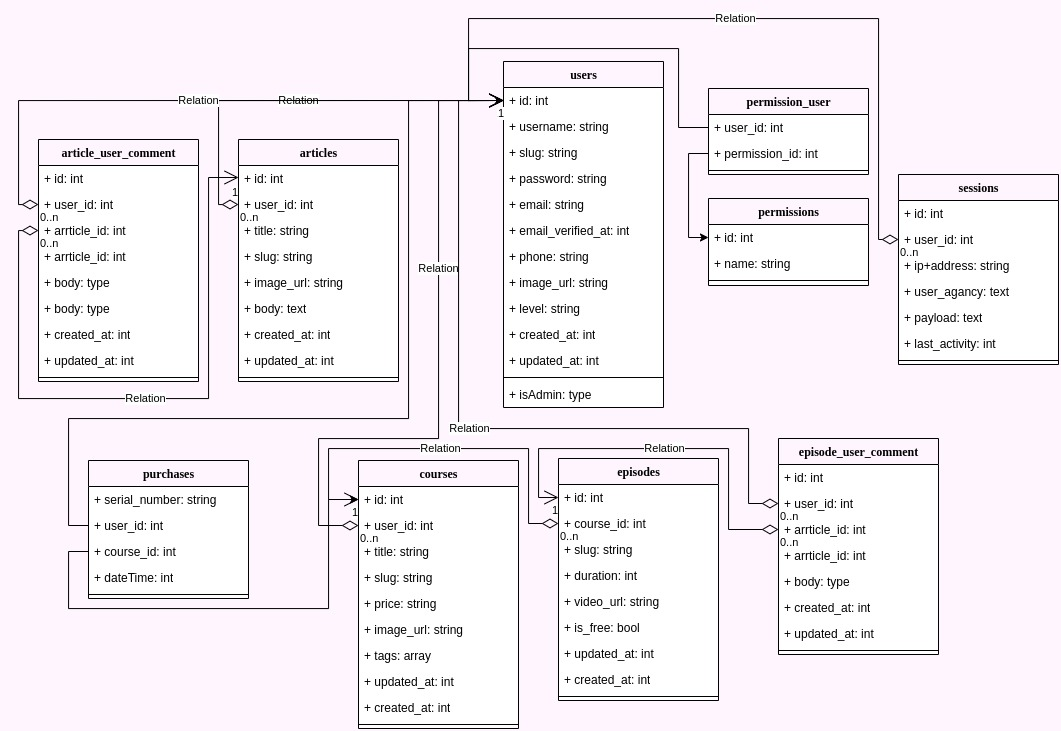
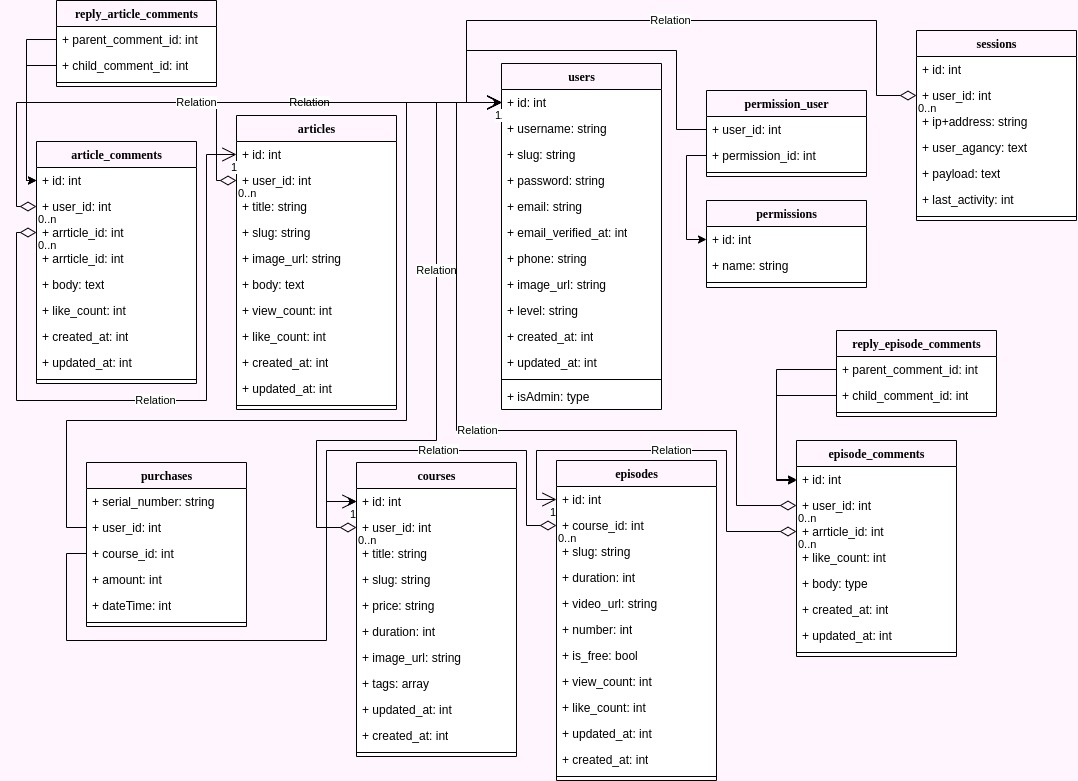
edit database diagram (editatio2)

Changed region(s): [[0.0, 0.0, 1.0, 1.0], [0.591, 0.0, 0.7154, 0.0301], [0.6532, 0.933, 0.6843, 0.9631]]

diff --git a/LearnShop/database/migrations/2022_09_07_120213_create_purchases_table.php b/LearnShop/database/migrations/2022_09_07_120213_create_purchases_table.php
@@ -20,6 +20,7 @@ return new class extends Migration
             $table->foreign('user_id')->references('id')->on('users');
             $table->unsignedBigInteger('user_id');
             $table->foreign('course_id')->references('id')->on('courses');
+            $table->string('amount');
             $table->timestamps();
         });
     }

diff --git a/LearnShop/README.md b/LearnShop/README.md
@@ -6,7 +6,7 @@
 <a href="https://packagist.org/packages/laravel/framework"><img src="https://img.shields.io/packagist/v/laravel/framework" alt="Latest Stable Version"></a>
 <a href="https://packagist.org/packages/laravel/framework"><img src="https://img.shields.io/packagist/l/laravel/framework" alt="License"></a>
 </p>
-<a href="https://viewer.diagrams.net/?tags=%7B%7D&highlight=0000ff&edit=_blank&layers=1&nav=1&title=LearnShop_DatabaseDiagram#R7V1bc%2BI4Fv41ecwUvmIek3Snd6u6t7qme3Zmn1IKVsA7xmJtk8v8%2BpVtiYtkgQlYx0xOV1cFC2Hko0%2Fn8p0jceXdLV6%2F5GQ5%2F8Ziml65o%2Fj1yvt05bqOE4z5n6rlrWkZB0HTMMuTWHTaNPxI%2FqKicSRaV0lMi52OJWNpmSx3G6csy%2Bi03Gkjec5edrs9sXT3W5dkRrWGH1OS6q2%2FJ3E5l88VTjZv%2FIMms7n46sgVD%2FxIpn%2FOcrbKxPddud79%2FX1w%2F7l5e0HkvcSDFnMSs5etJu%2FzlXeXM1Y2rxavdzStZCvF1nzu3vDuetw5zcouHxhHk5BP1%2BRpFNJJRKNrRzzIM0lXQhgkL5NpyqejGXH5JqVUvCSLlGT86nZeLlLe6PCXTywrf4hO1TVJk1nGX0%2F5kGjOG55pdUOS3og3SrbkrdN5ksZfyRtbVQMvSi5IeXU7Z3nyF78tkd%2FB385LARs33Onxo%2Fokbx7x1pwWvM93KQ1n3fSVFKXoM2VpSpZF8rge8ILksyS7ZWXJFqKTfNL7JE3vWMryWgDeU%2F2vums14zSWveWkNvdfJFPxOiWPNL1dQ0TeKWO1DIsyZ3%2Bu8VaLcuvrRKdKuvdkkaTVyvo3zWOSESn0Rh6Oq4NA4KKSPH3dahKg%2BELZgpb5G%2B8i3nV9AVCxgJ1Q3OJlazmEos98ayW4vvh6IpbgbH3vDQz5C4HEjqhcP8AGlVfurfjETfWXP6kKT%2F6o5S40GwmrEtWFLCGb0qfSCNhiSaZJNvta9%2Fnkb1p%2BFdKoml7mSUl%2F8PZqTC9cWfI2xu%2F3lNYAmSdxTLMaQCUpSYPBCilLxp%2BolmBwy%2F9zQd%2BNfgmuAv5cd%2Fza2Vzz%2F1X3vLxjGX8%2BktRzTjnAX2gF8lsdDeZFfxgfAg980XWDQ3g6Gv5F7377FkfFw29fkhX5%2Bc%2Bb%2BZfr69AAiFVB8wdERUdUaBPeCShGVASuPVToOsIzQKJMykqCNzUOcj4ViAmLmmIcQWIiMGCiSFczhAQQJJyRD2w9fKM%2FseCe%2FcMqTxEcQDbE8UaQCsPkVzyyKpatMFFPPiLCoroILDqbOiJ8AyKmOSUljR9Iic4mCCwii95mqxUxORerZYzIADQh7gjS53QmLbBQZj9NVNasE%2FlzYOoXfMJSupnrnxUUPl07Gh48HQ9eyzzXdNV3ViRlwqr7501fZf5h%2BAevowsZ9TDD0kPZmuGKdkCC9AMRpMFIaH8ByMjrhkfP70PneMiP9umcrBf8IPlRfbiuyTHhWiojCyTDoGBhkyBtJz4MyEA%2BrE9%2F1RvtRQUoReqZaPMlKYoXlscICyBlYZUm1cdrUhV0QRKkR8FAYZMebTUhkcnXrIHxwB8leUqQ%2FQCzJrB0qWci0JfzegJRbcCoDXCyVNYFYcptcBoDli%2F19IrDBhgpfaYICjAGoyvD2pvGMPkZmHgDVhchtAtqClkx8QaMjAjU9YxaYIGJt%2FOaBU9mT0ASb22p1dqHLG7iRZKJAp23JcVlbxMTrkWDoI3X163BkuaLpCj44sGc7AfKyY7l9jFpjrriMhr3gUsTgYo52XOoqfWyv4ycrG8qFsN8LCAkQDesBG0BLvqr553hrrnVPtzVQOfCl6t8OicFbqb9SH7JZNct8bty8Y7XByrlN%2Bk1IDRPSPqQrRaPFbTQJJ1BYa1VwGV4KYEpwMZttYCQgPVS2li1moZnq7ygCAogUIAWjYWm3EzFv%2F9MZESDmLCLCdiKsbCN8MB45sxT3LX%2BqxfXUXcPGiuA4cwHCme88J3xjBv2AcqxKZ5Bz%2BQcKmq95i8jghmbPBOMYAAhARrBjF0DJPBgIEhM2Axg2itSjUQYbobqsYaoQcowYpj2Yx1MqbplnkxRX4ABA3zni7FSGUvYwcEBuullbNr0UpJZ0WCC5Dl5Q0hY9C%2Fgt7y0FqRinTK8trC64aUdGqZEG25uAIaGzW0vuiFp8zCQQj83PwVIoUujtDXDdJkULEYO%2FSNx6IHGoXcNbs5xvn67ScJ6ZcumqNEFg%2BDR2xFhCmuw9AMUGLBsOh6p3nuwu3YSBkmm65AwWY54lZPG%2F0M1YR8TsNVAkQkUz0lMGZKlkMAAZ9JDkxFJioennIokyyNjKQLDomNhlUVvdzlNOVmkTIGhAc6mu0iZDhMasMdHTdo0BlKm5%2FUYQI%2Fbn%2BjOQkHxdIePRplORruUqTPp6Kw4UkWc%2FyhUncxHyrRXU9ToguFSppHxaDIsP4aDBShhOjFWjS35XxLHXP8XyIWcxbNZuwqXQZxOjAVClbYgM5JN8UcHYXABS546I5NnsSRvKSMxogIGFeDMqZFWT%2FmjP5BpmTwnJf%2BaMC2bqcl20BH%2Bb8WqNx7XHv%2F1tAFB45fw2LOKaG43PfmrWf1347k09%2BbDb24v3kcc2nNoYMudnVGbl4ucy5l1TVfGtQ%2FOxRnprsnmVM2Hyj%2FRZhy5l78t96KerOk4He1g1JcdHONJRSC%2FvNvohUEQMC2DM4FiS3UhNM5hzjb24TL2gDtOWy0juixnnmOLp222R0faJP9K06YETZ1smsU3eV6vKbasV9TWvPM3N%2BZT%2BBeyd5yQBcvin%2FPqvPkd18PxZUPlGIjpovGMSv%2BHz8eczVhG0s%2BbVsVboK9J%2BcfW6%2F9Ur%2FnCba4%2BvW699elNXmRceH9sX2x9qrrcfKy%2Bkp9rhFKN0GgBRFPBVvmU7pG8WF784WfUBCjPAJ68nqPn3UG0YUN89Durlbd0Tlxv1znxlXRPM3bxoQ3AtPt46jmdyn2aZ9Puc9Ps7Fx3E%2BvQPFx392ukwjMNS%2B3vCM21WSfNCDarZi3a9y8k3ZCOfvmlZRFx6Hyt9JF0pbf01NZy6mQdm5tPWZbRqdR3V%2BuHP%2BComLWB0aeVvy%2FUGX2n%2FZiRXqbgnCpOqfmHIU%2B74tSP%2BSGVEFJax6YPPMxa0BYPD2PUIceoB0C5P0b1FTUpz6iE21G1fiwsD%2BgnPN2jGgYRobaPD0sEBgoNmxFqe4mrCRokF8YN4QEHD%2FADyxxT7g%2FhMQB4wB9cZjyG6JHFso4EfxsPABngVQOt7CciAx4Z4BuuHFN1Iu6qGQA8wDddOXiE2XDhAX%2BMmdOWcFVQ8PGyan1MtcUNWO2hqc5fY2rNTmpNEkYgubVdUjV8b2ot2r1P1FNq7cjMGkBibV17ddGZteazA0mtSZtzyam1AwK1K0%2BdZkJVb0fVu11UvSkPdqKqv1ZqPD3nncreCQ7cqCdtH7h7h6V098W1sbtzWn9nMtnfX81X7vbvyfroW%2Bkv0fr4Q7I%2BOrV2edZnv0CtytPTHSS0Pme3PsbfzXpXkPEqVYkbed6RYDEEDEpNn%2Be%2B0xj5qlpWQ5gzGSNPMS%2BBP947LrW%2FH%2B43L75%2FWv%2B9wc3m0%2FJx2dNTQcsrdTGfwQR5urd%2BgSbowEqwa4I8vWzg4kzQAYFalaevyxNNkJ0AyOtSRz42BMsn2hxfiVv89xaS%2B2PlRkE%2FNifwVJsT7B2X2l%2BO02ijTuwfiDnoNaTxdbbiAu1Jo3IGYk98PUq8OHtyQKB25amHiOI3P7BY%2FYMWq4%2Bjdnf%2BcCrX6SuX6xvPqcKiwv7yvo1uMOd9oeuD%2FL1HVCE04KABXq3um3bbYznyAOABXq0ugx6ExxDhAV%2BtHuhEP9YkDwEZ4NXq0rJhTfIQ4QFesh4YN1BiTTI8PMBL1oO2XXIKCrAm%2BRyxadfy875qkgOdV8M8jZ08jYz9tvM0e35V9uy5mlD9%2FVy5N%2FbYXE2oJn3UQoMz5WrGam4kcPaOS%2B1%2FKPcSqPUBR%2FYPnD3lZzbrAwKdhrzAfE5gUJ0g%2BZxA5%2FAuLp9zQKBW5RnqkSvaHUt2J9Ltjq29MKpK9t67G0Y1Xl5PJkcxbYG7vzxA7S%2FLFoxlDqoNPrK%2Flf02oc4lXKA5CYdUbhb%2BDcrNDgjUrjwnrdI7Rptv%2BnxlddBZyfa%2FtCzfhM0gq5IptmfwBkDT60FL0NGT8j9a1x5X%2FasWiPkHNKe6F%2BXI%2FlY0rXwmhPEhGHfxYc5T43gqjMfeMTAOvePqA4%2Ftb6WecDxGGHeC8fq0%2Fb049k%2Flf047DxxGJ8HHSePhmspQKX1z%2FP0bJdX%2BB4gttfj6yO5WTGWkF9gigWBnYUSAh2lM1ABYDfw777B21KMreqIQImXtueF%2B1lrtf8hPVf3gIa5VPcl0gQRCZPg9ORACIdIp%2FosjEA4I9Ezy5Jc5q36GcYPonCzn31hcyeXz%2FwE%3D">DataBase Diagram</a>
+<a href=https://viewer.diagrams.net/?tags=%7B%7D&highlight=0000ff&edit=_blank&layers=1&nav=1&title=LearnShop_DatabaseDiagram.drawio#R7V1rc5s6Gv41%2BdiOuRp%2FTNKm2zPtTqft2T27XzKKUWxOMfICTuLz648AyRddbByDhDdvpzMxWGAhPXpvz%2FuKK%2B928fIpR8v5VxLj9ModxS9X3ocr13Vcf0T%2FVGfWzZloNGlOzPIkZo22J34kf2F2kl03WyUxLvYaloSkZbLcPzklWYan5d45lOfkeb%2FZI0n3f3WJZlg68WOKUvnsv5O4nLOzTjjZfvEPnMzm7Kcjd9x88YCmv2Y5WWXs965c7%2B7uLrj72Hy9QPxe7EGLOYrJ884p7%2BOVd5sTUjafFi%2B3OK3Glg9bc92d5ttNv3OclW0uGEeT0HGCyeMoxJMIR%2B8c9iBPKF2xwUB5mUxTOh1Nj8s1H6XiOVmkKKNHN%2FNykdKTDv34SLLyB2tUHaM0mWX085R2Cef0xBOubojSa%2FZFSZb07HSepPEXtCarquNFSQeSH93MSZ78RW%2BL%2BG%2FQr%2FOSwcYN91r8qK6kp0f0bI4L2uYbHw1nc%2BoLKkrWZkrSFC2L5GHT4QXKZ0l2Q8qSLFgj%2FqR3SZrekpTk9QB4j%2FW%2F6q7VjOOYt%2BaT2tx%2FkUzZ5xQ94PRmAxF%2Bp4zUY1iUOfm1wVs9lDs%2FxxpVo3uHFklarax%2F4TxGGeKD3oyH48ogYLioRh6%2F7JxioPiEyQKX%2BZo2Yd%2B646C5hC1gx2PHzzvLIWQgnu%2BsBHfis2XIluBsc%2B8tDOkHhsSWqNw8wBaVV%2B4Nu%2BK6%2BkufVIQnfdRyH5rNCIsjKg8yh2yKH0stYIslmibZ7Evd5oO%2FPfOdjUZ16nmelPgHPV%2F16ZkKS3qO0Ps9pjVA5kkc46wGUIlK1GCwQsqS0CeqRzC4of%2FpQN%2BO3gdXAX2uW3rsbI%2Fp%2F6p5Xt6SjD4fSuo5xxTgz7gC%2BY2MBv2iP44Phge66NrBITwfDf%2FEt79%2FjaPi%2FvdPyQr9%2FHw9%2F%2FTuXagBxKrA%2BT2gwg4qAtccKmQZ4WkgUSZlNYLXNQ5yOhWACYOYGEc2MRFoMFGkqxlAwhIknJFvWXv4WntiQS37%2B1WeAjhsgcMb2RQYOrvigVS%2BbIWJevIBEQYRERg0Ntf%2F%2FbycesFyHf2G%2F3z8%2FtvnAv%2F%2BztWA4inBz%2FdT6sqVYG%2B2QoY06a3AokdGZNDgVCJDZ3OmyS8MyLCHDHdk1ez0NbCY5hiVOL5HAAs7YQvPtuWpc0hWyxiQYTWgZdPsdCYKWAiznyZipL1VwPjI1C%2FohKV4O9c%2FKyh8eOdIePBkPHiKea5D3N9IkZQJqe6fN22F%2BbczxVFLOzLqYYa5V7Mzw1WoEkiVN0SqBJwW5ayo1w6Pnt%2BHzPGAU%2BlTBW0W%2FCA5Fbm7Oh%2B3klIZWkAA3RYsTJIq6mCpBhkQQ7eICqu0iqcLeyxRUTyTPAZYWIKFUWpF7q9OVOAFSoBSsQYKk5SKUoVEOluzBsY9fZTkMYHohz2EmKRY5P7qSLflvJ5AEBt2QGGSXVFbnjqnBGh62%2BCwS7B4cpYy493wEwZQWAOFdXpFZ2cA8WY7tmXbBNW5rEC8WUZGW1amH0USKWABxFu3U%2Bxx9sQK8aaiVmsbsriOF0nGkvrWSwzL3iQmXIMKQeqvL2uDJc4XSVHQxQOc7BviZMf%2BfqGb2xaX0bgPXOoCqMDJdiGmNsv%2BMjhZX5csBnysRUhYLXILVA4u2KvdznBbbrUPczWQY%2BHLVT6dowIK8N%2BSXeK4%2B3aJ3zYY74R9FODzX5KTQHCeoPQ%2BWy0eKmyBTupAYm1kwGWYKYHOw4ZafIuQsGumqMJqdRyerPICAygsgcJk1piyXk6HC7SAWrneauUanAw0ZyzUUXYVLfMz4Y4ugMKspLBbhh%2Bq4mDg5nY8xW2Tvvrwc0PZaGxsA%2FBy35CX601e6eX2s83cWOflgr3ahYjarPnL8GvHOssE%2FFqLkLDq145dDSRgjzmbmDDp1qoTlbXhUaiRswcL%2B%2FvMBToGd5knU5AX1oBh0rlVxsF0%2BevxKkeNpwi2RQ%2BRsAYqwyiDUmcp64ABFS%2FWhYbJcijZ8tTVyJVoVjSYQHmO1gAJk%2B6pySIotbzQESpQ1mAZGtZLobSJ71ALZTuoZZNaGassDKBWOp5im1vNcTtlZ4bxMilIDNzKW%2BJWAolbaSl2NqU53askKG%2FoUxVtFv4g%2BRU1InRuDSSKWQWGXZYF3toyQEhY3XFurNMcEDC1iQm7qYORDhRPSYwJBEttAsM6w6IzLHYrVUBcdMyvNEAZML8S6kyLpLh%2FzDFucPFASArAMCkurL%2FIR69K4BVPNkWGUYpFiQydxIBXPFlGhn2GRZf1BeSb7bCW7d3mXCDfBgoNq9vNTVQSQ5h9IN%2FOnGKr281NZHOhwLCt2Fsj3ybBPvkWtFRIzqQv7k3BCgP31p0m2qz7y%2BHeIu2WuFDfZA8WVpm3iTb9eEn%2Fojim4r%2BAoLolaFhl4CbaTNNKWqAZyqZrtpduBQHAhTlc2GXhnJHOsliidUpQDKiwgwr7b33SBdVT%2Buj3aFomT0lJfyZMy2Zqsj10hP9bkeqLh43B%2F27agKCxS6jrWTk0N9uW9NOs%2Fru1XJp70%2B43t2ffAw4N4tDqu6WckcrKhZBLx3Pclr%2FrI%2BTijGTTZLub%2B31ln0gzDqGX%2F9vQi7iju%2BO03dG9Lz04hg0ye9dLWyEwyACMor86UOyILoCGJWhYDcI4jip3DUyWjufY4C7vau9ImuTvOG1ymcXJxll8nef1miLLekXtzDv9cqs%2BmX3BW8cJWpAs%2Fjmv3nO0Z3o4Pj9RGQZsunA8w9z%2BofMxJzOSofTj9qxgLeCXpPxj5%2FN%2Fqs904TZHH152vvqw5gcZHbw%2Fdg92rqoOt5fVR%2Fw6rWVQkFU%2BxQcGmq0m%2BqwzrMOPx25WjcBB8OT1HD3hvS6osMEu%2FUZq4c2NEzcUirIEuqd5GHbRFmDSfXxxe3jhPs3DSve5brYI2DRj61DfXYHGckejg90S2ztMcm3XSdOD7arZDO3rF5KsSEfv3ysWEZ3aL5U84qb0jpzaWU6ttKMMxkNLfEqyDE%2B5XLzavGKovU3L32vZGn3nvURTzlJwzh1OLvmHMZ5mh1PeRxBVg5BW6YOLBWYrEPzTN%2BKfCiKSb4B91Nbkb8PuHqC6AD74H6%2BwTQ%2FLgEF6p%2BouQ3rAQKFh0jtVZ7fqoIFyptgAHvbgYX03VEfH%2BwE8BgAP%2B7uiaveyeyAx5JBYRIb1ol3djutQa9VtrdUBwAyDx1d3UJedCEU1AxAeJkt41X2GvTCHCw%2F7W6U6KsJVQMHbZtW6muq2hbl9MWuuHL8Gaq0Xao3HiAbBrQncU%2Fhaas3Zv0%2FUD7UmMmtM7ul6ZYNYc2VzfCjMGl%2Fil0atcZ0zOGqtuwE1O55yqAlEfS%2Bi3m0j6l1Dol7IfvCcV8p6Jzpyo56EfeAe7JbQ3HePZF3457V32O6K%2FSoTuTB%2BMMrEv1BlIsdRB6JMOhtQo%2BPpyfYOKJNzlYn2tZrd%2BAwvXJS4keedCBa1dPSEFD1pO%2FTWjoQoZkWPpCPl4ol7Tfjjg%2F0S2%2FvhYXXhj89rf9BX2V7NH5c8Pha4vBIXcwcqyJON76GoII73S1NBnpwJMAwV1N2AGh1PXx5PUEG9%2BDNem7Rw%2FkLwvv0ZX%2FBD%2FNfmhQcj4UZBTw5NKOqc4HC%2FxLz38WEdIirhU9sHbA56dWl8OfgwFH3C5cil6RNf9hKHoU%2B6G1Cz4ym7iOxdUJB7%2FgZzzyNPbcofZ2WdvmhZX7vlFOQIdkThboTA5SSf%2Bwd3mwJo2IOG9eRzX1c4D9nFA4CH9eRz7vBADukA0WE%2F9zzQpRjv5J6vlxiQYRoZ1ner44oNsouHCA%2FryeeBthwSsovtw8N68nmgqnkTUADZxV24pm0TyfvKLg7kkBpQNL1QNNzT26VoDr5XvG%2BaJhRfqc4rXU%2BlaUKR7xFzDDqiacYiLRI4B%2Fsltj9GuwRiasCJ7QNWlGE9NSCQo5BDoXK4vLk0KieQQ3jDoHK6G1Cj4xnKnivonX70TiTrHWtVLaJI9l5b1yIqL68nlSOKePdwZoDYnmcsaLPLRB18YnsjlTOhHEsYijrhYuTS1Ek41Eyz7gbU7HhOlKN3ijTftvlCaqezGts%2FcVmumc5Aq5IIumdoCkCS64HC6TAl%2FE%2BVtc7otMxfsT1PM2ubwXxqeyOylufoAZAFILexYnpKcDwbyGPvJCCHR1LSxfTAU9sbSSccjwHIKoxutso%2FiGS%2F8xjQebt725FKxn2l8QWpy7FQ2e%2F4e9Gno%2B2PBbdGZzU3oiwjOb%2F28oIIrwT5ayTd6xdGNKStMSa6d%2BKcXDDtiBtR9BRGmIhr1TkcRhDbH7FUpTqJIa5VmWgaShCBi5FLCyJEcph%2FGEGE7ga0r%2FFU7tcop2LmeJmu76HG4KJrDI7sHnmkxkAI6Ho8I9PE%2B9fUu4rqUkKbh%2BIohbzhjnYX1YsKfVaHwfQuNUZ0BQe1cAGI2IeIycIDNURUlUoCBt5eilf3E23wxWzK3rkXGLoRHMijLutBPXk036qhGQyE1tTzozbZBxgn7XJuojOHXO3YigWhwagfdz4S3fMj7rzYPth%2F8dzZDrcaWNz8Fd0ZeF3X23VnhPQR17Yzo333Djgz5izVRlIM15tRbIsK3sywMGLdnVFsyAnuTB8zbd2feSN5BZ3Y2aptjg%2B8NNM0hS3mpRwmsEPRdjFhREeAtvZo8y8JbdFhn61btNHDnJBytzk1AOZfSVwRcx%2F%2FBg%3D%3D">DataBase Diagram</a>
 
 - [Simple, fast routing engine](https://laravel.com/docs/routing).
 - [Powerful dependency injection container](https://laravel.com/docs/container).
